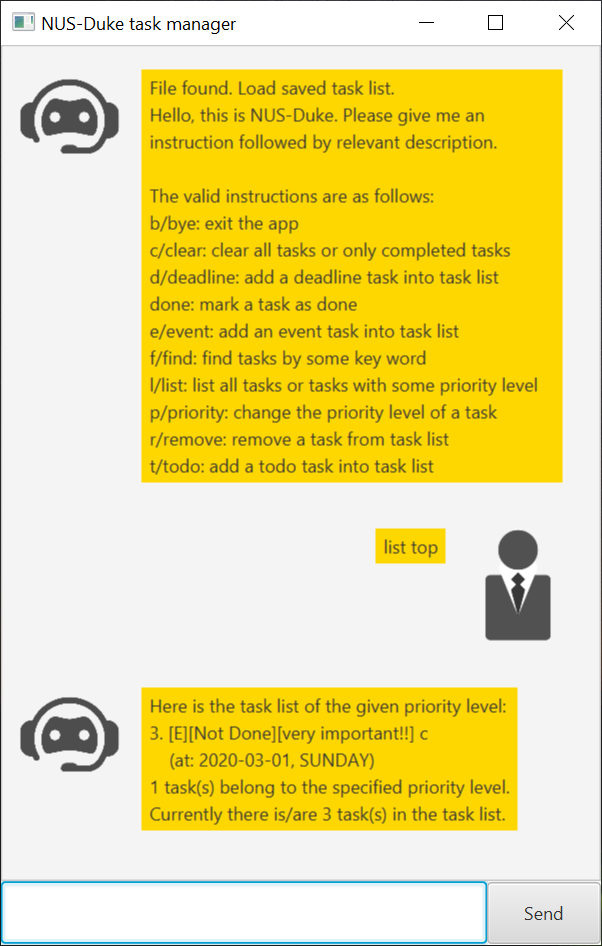
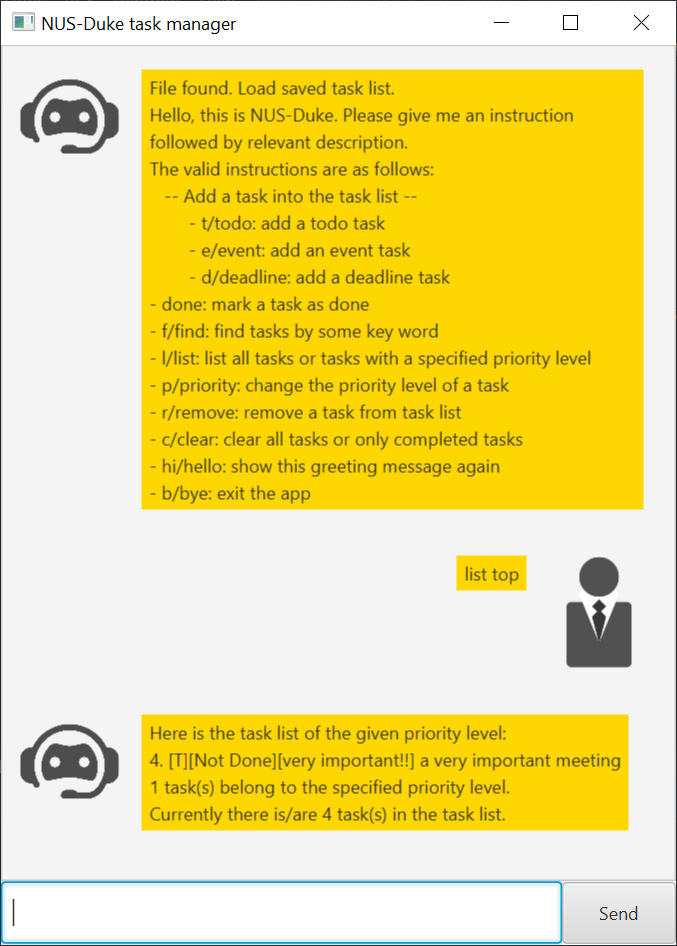
Improve Ui message based on GUI presentation

diff --git a/src/main/java/e0148811/duke/Logic.java b/src/main/java/e0148811/duke/Logic.java
@@ -78,7 +78,7 @@ public class Logic {
 
     private String prioritiseTask(String[] instructionByWord, int lengthOfArray) throws DukeException {
         if (lengthOfArray != 3) {
-            ui.throwWrongFormatException("\"priority index_of_the_task (a positive integer) level_of_priority"
+            ui.throwWrongFormatException("\"priority index_of_the_task\n(a positive integer) level_of_priority"
                     + " (which include: l/low, n/normal, h/high, t/top)\"");
         }
         int index = getIndexOfTaskToBePrioritised(instructionByWord) - ONE_TO_CONVERT_BETWEEN_1_BASED_AND_0_BASED_INDEX;
@@ -182,7 +182,7 @@ public class Logic {
 
     private String findTasks(String[] instructionByWords, int lengthOfArray) throws DukeException {
         if (lengthOfArray != 2) {
-            ui.throwWrongFormatException("\"find key_word (a character sequence)\"");
+            ui.throwWrongFormatException("\n\"find key_word (a character sequence)\"");
         }
         String keyword = instructionByWords[1];
         HashMap<Integer, Task> selectedList = new HashMap<>();
@@ -213,7 +213,7 @@ public class Logic {
         if (lengthOfArray != 2) {
             if (command.equals("done")) {
                 ui.throwWrongFormatException(
-                        "\"done index_of_the_task_completed (a positive integer)\"");
+                        "\n\"done index_of_the_task_completed (a positive integer)\"");
             } else {
                 ui.throwWrongFormatException(
                         "\"remove index_of_the_task_you_want_to_remove (a positive integer)\"");
@@ -221,7 +221,7 @@ public class Logic {
         }
         try {
             int index = Integer.parseInt(instructionByWord[1]) - ONE_TO_CONVERT_BETWEEN_1_BASED_AND_0_BASED_INDEX;
-            String output = "";
+            String output;
             checkIfIndexIsValid(index);
             if (command.equals("done")) {
                 output = tasks.markATaskDone(index);
@@ -244,7 +244,7 @@ public class Logic {
 
     private Task createATodoTask(String[] instructionByWord, int lengthOfArray) throws DukeException {
         if (lengthOfArray == 1) {
-            ui.throwWrongFormatException("\"todo a_string_describing_the_task\"");
+            ui.throwWrongFormatException("\n\"todo a_string_describing_the_task\"");
         }
         String description = String.join(" ",
                 Arrays.copyOfRange(instructionByWord, 1, lengthOfArray));
@@ -288,9 +288,9 @@ public class Logic {
         assert typeOfTask.equals("deadline") || typeOfTask.equals("event");
         if (indexOfByOrAt == -1 || indexOfByOrAt == 1 || indexOfByOrAt == (lengthOfArray - 1)) {
             if (typeOfTask.equals("deadline")) {
-                ui.throwWrongFormatException("\"deadline a_string_describing_the_task /by YYYY-MM-DD\"");
+                ui.throwWrongFormatException("\n\"deadline a_string_describing_the_task /by YYYY-MM-DD\"");
             } else {
-                ui.throwWrongFormatException("\"event a_string_describing_the_task /at YYYY-MM-DD\"");
+                ui.throwWrongFormatException("\n\"event a_string_describing_the_task /at YYYY-MM-DD\"");
             }
         }
     }

diff --git a/src/main/java/e0148811/duke/Ui.java b/src/main/java/e0148811/duke/Ui.java
@@ -28,8 +28,8 @@ public class Ui {
     }
 
     public static String greet() {
-        return "Hello, this is NUS-Duke. "
-                + "Please give me an instruction followed by relevant description.\n";
+        return "Hello, this is NUS-Duke."
+                + " Please give me an instruction followed by relevant description.\n";
     }
 
     public String sayGoodbye() {
@@ -55,27 +55,30 @@ public class Ui {
     public void throwEmptyLineException() throws DukeException {
         throw new DukeException("Empty line input. "
                 + "Please specify an instruction followed by relevant description.\n"
-                + "The valid instructions include: todo, deadline, event, list, done, bye.");
+                + "The valid instructions include: b/bye, c/clear, d/deadline, "
+                + "done, e/vent, f/find, hi/hello, l/list, p/priority, r/remove, t/todo");
     }
 
     public void throwUnknownCommandException() throws DukeException {
         throw new DukeException("I don't understand this instruction.\n"
-                + "The valid instructions include: b/bye, c/clear, d/deadline, " +
-                "done, e/vent, f/find, l/list, p/priority, r/remove, t/todo");
+                + "The valid instructions include: b/bye, c/clear, d/deadline, "
+                + "done, e/vent, f/find, hi/hello, l/list, p/priority, r/remove, t/todo");
     }
 
     public static String showValidInstructions() {
-        String output = "\nThe valid instructions are as follows:\n";
-        output += "b/bye: exit the app\n";
-        output += "c/clear: clear all tasks or only completed tasks\n";
-        output += "d/deadline: add a deadline task into task list\n";
-        output += "done: mark a task as done\n";
-        output += "e/event: add an event task into task list\n";
-        output += "f/find: find tasks by some key word\n";
-        output += "l/list: list all tasks or tasks with some priority level\n";
-        output += "p/priority: change the priority level of a task\n";
-        output += "r/remove: remove a task from task list\n";
-        output += "t/todo: add a todo task into task list\n";
+        String output = "The valid instructions are as follows:\n";
+        output += "   -- Add a task into the task list --\n";
+        output += "        - t/todo: add a todo task\n";
+        output += "        - e/event: add an event task\n";
+        output += "        - d/deadline: add a deadline task\n";
+        output += "- done: mark a task as done\n";
+        output += "- f/find: find tasks by some key word\n";
+        output += "- l/list: list all tasks or tasks with a specified priority level\n";
+        output += "- p/priority: change the priority level of a task\n";
+        output += "- r/remove: remove a task from task list\n";
+        output += "- c/clear: clear all tasks or only completed tasks\n";
+        output += "- hi/hello: show this greeting message again\n";
+        output += "- b/bye: exit the app\n";
         return output;
     }
 }

diff --git a/src/main/java/e0148811/duke/Task.java b/src/main/java/e0148811/duke/Task.java
@@ -32,7 +32,7 @@ public abstract class Task {
             priorityIndication = "[      ordinary      ] ";
             break;
         case HIGH:
-            priorityIndication = "[    important!    ] ";
+            priorityIndication = "[     important!    ] ";
             break;
         case TOP:
             priorityIndication = "[very important!!] ";

diff --git a/src/main/java/e0148811/duke/DukeException.java b/src/main/java/e0148811/duke/DukeException.java
@@ -2,6 +2,6 @@ package e0148811.duke;
 
 public class DukeException extends Exception {
     public DukeException(String message) {
-        super("ERROR. Please refer to the following message:\n" + message);
+        super("An Error occurred. Please refer to the following message:\n" + message);
     }
 }
